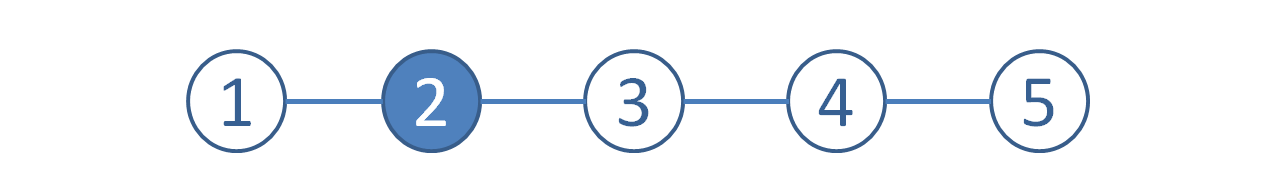
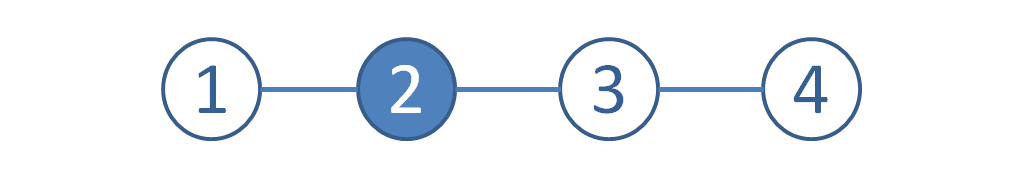
commit checkout

Changed region(s): [[0.1223, 0.1977, 0.856, 0.8192]]

diff --git a/foundation5/checkout3.html b/foundation5/checkout3.html
@@ -70,8 +70,14 @@ and open the template in the editor.
                                 <tbody>
                                     <tr>
                                     <div class="small-10 small-centered columns">
-                                        <img height="100%" width="100%" src="/img/checkout4.png"/></td>
+                                        <img height="100%" width="100%" src="/img/checkout3.png"/></td>
                                     </div>
+                                            
+                                    </tr>
+                                    <tr>
+                                        <div class="small-10 small-centered columns">
+                                            <h3><b>Select Payment Method</b></h3>
+                                        </div>
                                             
                                     </tr>
                                     <tr>
@@ -85,8 +91,8 @@ and open the template in the editor.
                                                     <div class="small-9 columns"><h5>**** **** **** 0000</h5></div>
                                                 </div>
                                                 <div class="row">
-                                                    <div class="small-3 columns"><h5>Holder's Name</h5></div>
-                                                    <div class="small-9 columns"><h5>My Name</h5></div>
+                                                    <div class="small-6 columns"><h5>Holder's Name</h5></div>
+                                                    <div class="small-6 columns"><h5>My Name</h5></div>
                                                 </div>
                                                 
                                             </div>
@@ -94,7 +100,7 @@ and open the template in the editor.
                                         <td>
                                             <div class="small-10 small-centered columns">
                                                  <div class="row">
-                                                    <a href="checkout5.html" class="button expand round text-left">
+                                                    <a href="checkout4.html" class="button expand round text-left">
                                                         <div class="small-12 columns"><h3>>></h3></div>
                                                     </a>
                                                 </div>
@@ -130,7 +136,7 @@ and open the template in the editor.
                                         <td>
                                             <div class="small-10 small-centered columns">
                                                  <div class="row">
-                                                    <a href="checkout5.html" class="button expand round text-left">
+                                                    <a href="checkout4.html" class="button expand round text-left">
                                                         <div class="small-12 columns"><h3>>></h3></div>
                                                     </a>
                                                 </div>

diff --git a/foundation5/checkout1.html b/foundation5/checkout1.html
@@ -129,7 +129,7 @@
                                         <td>
                                             <div class="small-12 small-centered columns">
                                                 <div class="row">
-                                                    <a href="checkout3.html" class="button expand round text-center">
+                                                    <a href="checkout2.html" class="button expand round text-center">
                                                         <div class="small-12 columns"><h3>Next</h3></div>
                                                     </a>
                                                 </div>

diff --git a/foundation5/checkout4.html b/foundation5/checkout4.html
@@ -68,7 +68,7 @@ and open the template in the editor.
                                 <tbody>
                                     <tr>
                                     <div class="small-10 small-centered columns">
-                                        <img height="100%" width="100%" src="/img/checkout5.png"/></td>
+                                        <img height="100%" width="100%" src="/img/checkout4.png"/></td>
                                     </div>
                                             
                                     </tr>
